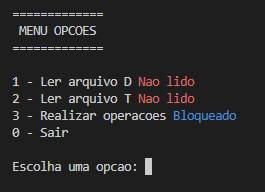
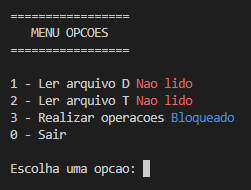
Alteracao

diff --git a/src/main.cpp b/src/main.cpp
@@ -65,9 +65,9 @@ int main() {
 
 template <typename T, typename D>
 int menu(T *itens, D *tarefaT) {
-	cout << "=============" << endl;
-	cout << " MENU OPCOES" << endl;
-	cout << "=============" << endl << endl;
+	cout << "=================" << endl;
+	cout << "   MENU OPCOES" << endl;
+	cout << "=================" << endl << endl;
 
 	cout << "1 - Ler arquivo D ";
 	cout << (itens->empty() ? RED "Nao lido" : GREEN "Lido") << RESET << endl;
